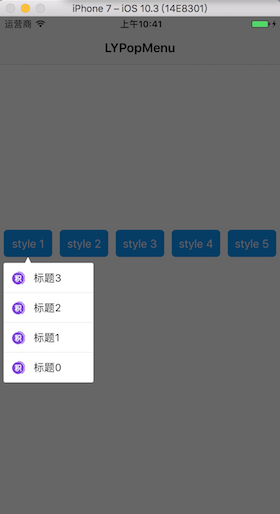
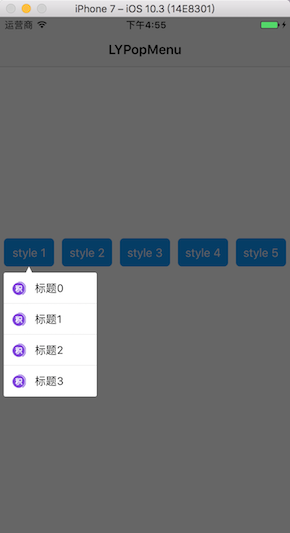
modify some and change to pod 1.2.1

diff --git a/LYPopMenu/LYPopMenuView.swift b/LYPopMenu/LYPopMenuView.swift
@@ -114,7 +114,7 @@ extension LYPopMenuView {
             let cell_y = cell_h * CGFloat(idx)
             let rect = CGRect.init(x: 0, y: cell_y, width: cell_w, height: cell_h)
             let cell = LYPopMenuCell.init(frame: rect, style: style)
-            cell.itemModel = items.reversed()[idx]
+            cell.itemModel = items[idx]
             cell.cellSelectAction = { [weak self] title in
                 self?.actionItem(title)
             }

diff --git a/LYPopMenuDemo/LYPopMenuDemo/LYPopMenu/LYPopMenuView.swift b/LYPopMenuDemo/LYPopMenuDemo/LYPopMenu/LYPopMenuView.swift
@@ -114,7 +114,7 @@ extension LYPopMenuView {
             let cell_y = cell_h * CGFloat(idx)
             let rect = CGRect.init(x: 0, y: cell_y, width: cell_w, height: cell_h)
             let cell = LYPopMenuCell.init(frame: rect, style: style)
-            cell.itemModel = items.reversed()[idx]
+            cell.itemModel = items[idx]
             cell.cellSelectAction = { [weak self] title in
                 self?.actionItem(title)
             }
